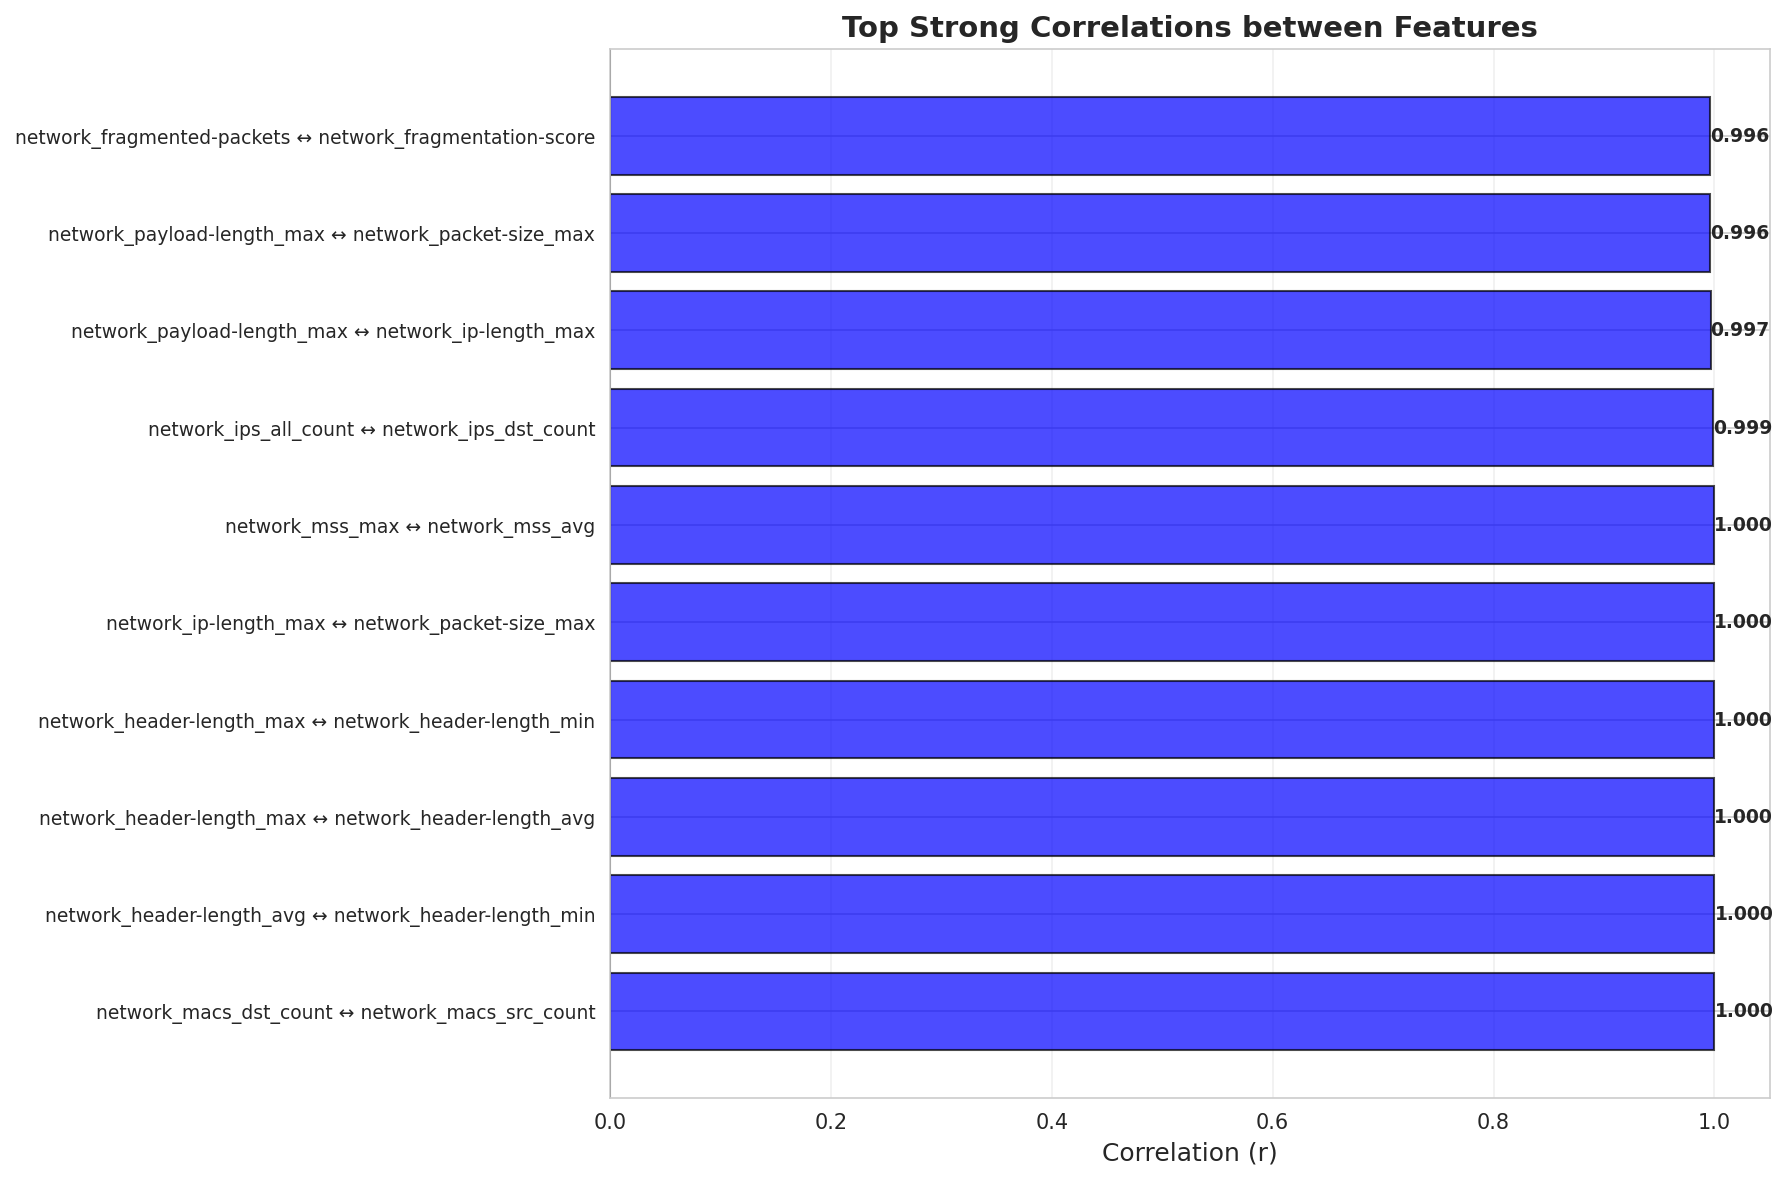
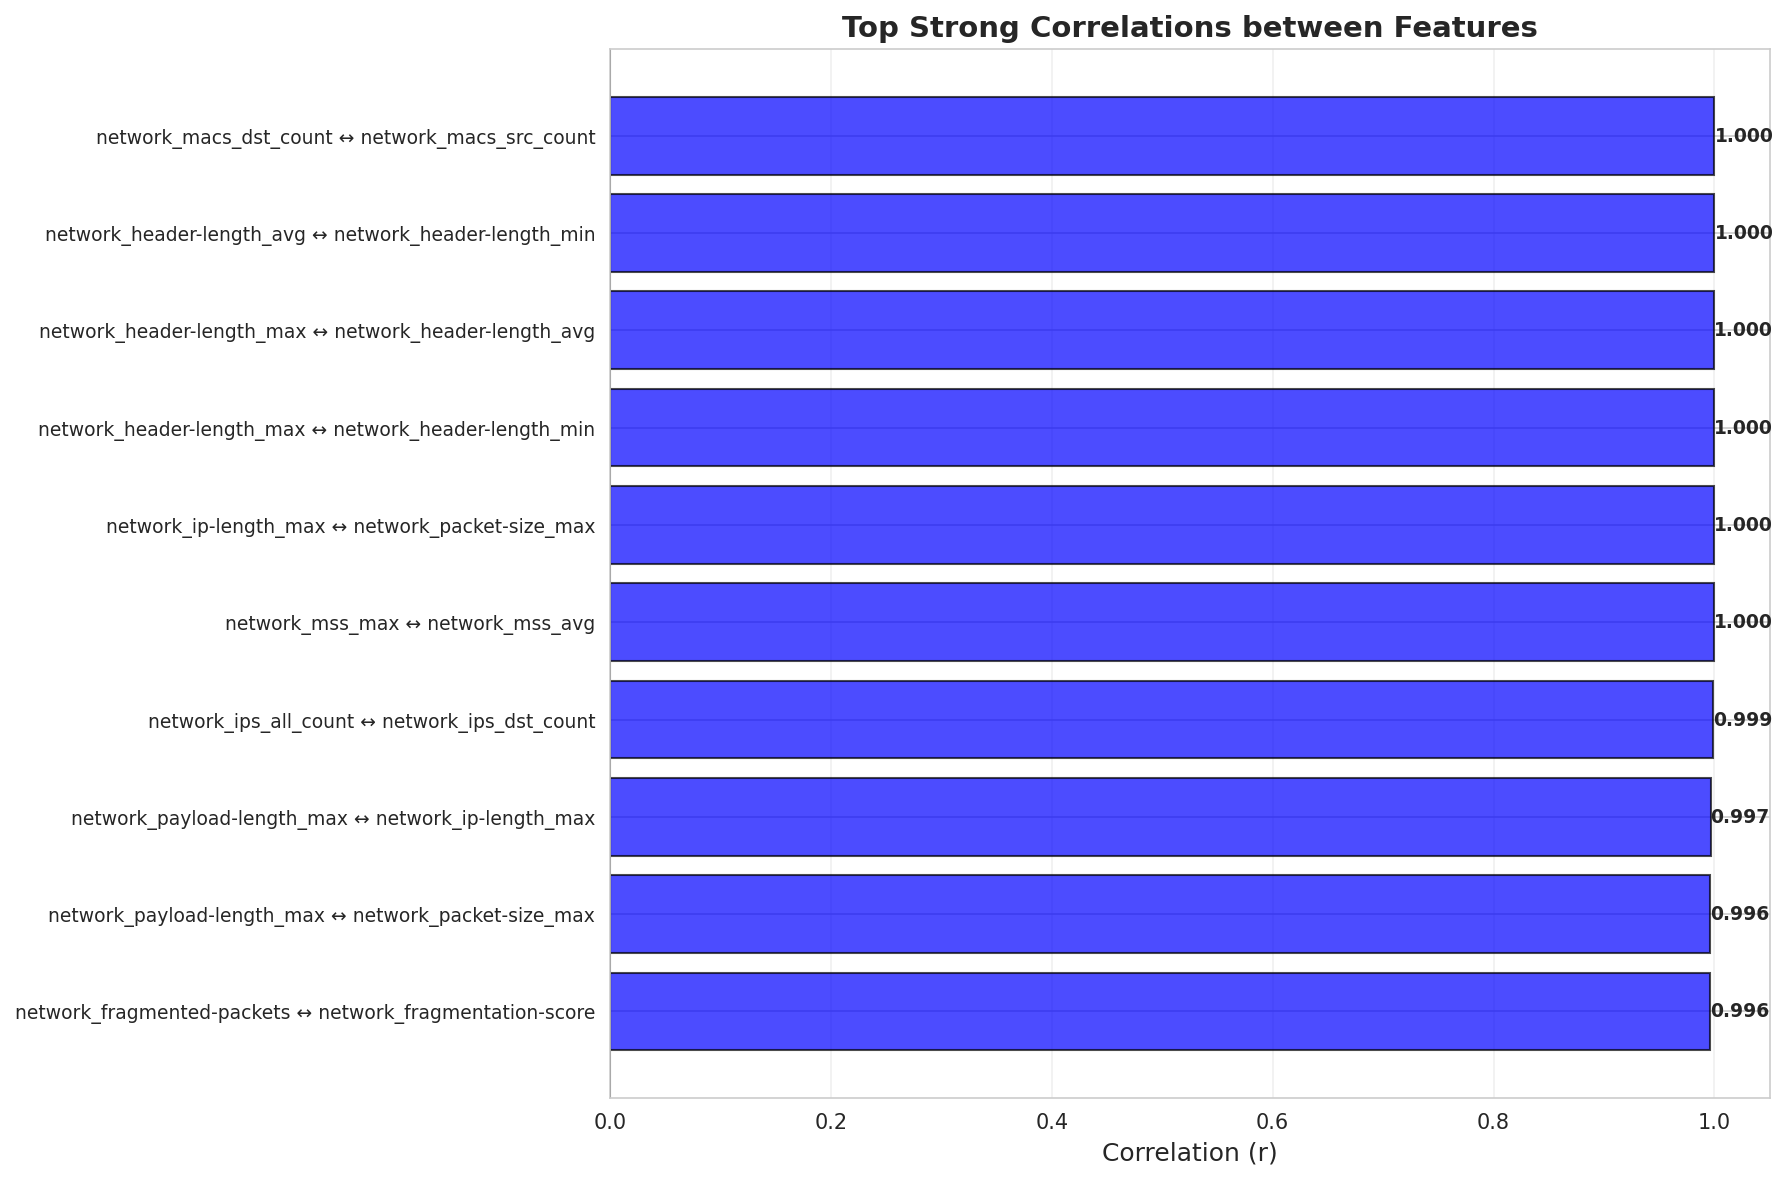
doc: update CIC IIoT 2025 dataset analysis

diff --git a/results/dataset_analysis/CIC_IIoT_dataset_2025_analysis_report.md b/results/dataset_analysis/CIC_IIoT_dataset_2025_analysis_report.md
@@ -3,7 +3,7 @@
 
 This report presents a complete exploratory analysis of the CIC_IIoT_dataset_2025 dataset.
 
-**Analysis Date**: 2026-02-15 13:29:26
+**Analysis Date**: 2026-02-15 13:49:33
 **Dataset**: CIC_IIoT_dataset_2025
 **Sample Size**: 685,671 records
 
@@ -175,8 +175,57 @@ Total: 94 features
 | network_mss_min | 685,671 | 266.6931 | 562.4755 | 0.0 | 1460.0 |
 | network_window-size_max | 685,671 | 26553.0249 | 31060.321 | 0.0 | 65535.0 |
 | network_ips_src_count | 685,671 | 3.5791 | 6.484 | 0.0 | 78.0 |
-
-*Showing top 20 of 71 numeric-like features*
+| network_tcp-flags_avg | 685,671 | 8.9136 | 9.2168 | 0.0 | 208.3478 |
+| network_tcp-flags-rst_count | 685,671 | 5419.6583 | 58071.4352 | 0.0 | 1486432.0 |
+| network_ip-length_avg | 685,671 | 116.7877 | 218.6081 | 0.0 | 2481.8333 |
+| network_ports_dst_count | 685,671 | 853.2226 | 5631.3971 | 0.0 | 65916.0 |
+| network_macs_dst_count | 685,671 | 3.3732 | 5.8305 | 0.0 | 45.0 |
+| network_header-length_max | 685,671 | 14.4844 | 8.9508 | 0.0 | 24.0 |
+| network_payload-length_std_deviation | 685,671 | 64.5199 | 165.2928 | 0.0 | 2177.1326 |
+| network_tcp-flags_max | 685,671 | 16.9472 | 100.7973 | 0.0 | 2242.0 |
+| network_window-size_min | 685,671 | 1531.8094 | 3768.6067 | 0.0 | 65535.0 |
+| network_interval-packets | 685,671 | 153.7965 | 461.8239 | 0.0 | 9471.0 |
+| network_fragmented-packets | 685,671 | 1007.2407 | 6331.1532 | 0.0 | 69251.0 |
+| log_messages_count | 685,671 | 1.8951 | 6.65 | 0.0 | 206.0 |
+| network_tcp-flags-psh_count | 685,671 | 3149.4591 | 39898.0425 | 0.0 | 1144412.0 |
+| network_tcp-flags_std_deviation | 685,671 | 2.8807 | 8.6968 | 0.0 | 627.6989 |
+| network_payload-length_max | 685,671 | 363.6184 | 811.4909 | 0.0 | 11584.0 |
+| network_ip-length_min | 685,671 | 63.6069 | 105.0832 | 0.0 | 1076.0 |
+| log_data-ranges_min | 685,671 | 57.3982 | 210.0542 | -0.94 | 2000.0 |
+| network_packet-size_std_deviation | 685,671 | 72.054 | 170.4643 | 0.0 | 2178.2776 |
+| log_data-ranges_std_deviation | 685,671 | 1.2542 | 16.1927 | 0.0 | 828.1889 |
+| network_header-length_avg | 685,671 | 14.4783 | 8.9455 | 0.0 | 24.0 |
+| log_data-ranges_avg | 685,671 | 59.8387 | 215.6092 | 0.0 | 2000.0 |
+| network_tcp-flags-ack_count | 685,671 | 4819.9003 | 42086.3376 | 0.0 | 1149957.0 |
+| network_ttl_avg | 685,671 | 97.4668 | 83.3519 | 0.0 | 255.0 |
+| network_fragmentation-score | 685,671 | 0.4664 | 2.2919 | 0.0 | 13.08 |
+| network_protocols_all_count | 685,671 | 1.9906 | 1.7959 | 0.0 | 34.0 |
+| network_mss_avg | 685,671 | 270.9329 | 567.0857 | 0.0 | 1460.0 |
+| log_interval-messages | 685,671 | 133.5741 | 346.989 | 0.0 | 9995.0 |
+| network_mss_std_deviation | 685,671 | 0.76 | 14.0911 | 0.0 | 591.3716 |
+| network_packets_dst_count | 685,671 | 26906.9448 | 115622.6209 | 0.0 | 1487601.0 |
+| network_packets_src_count | 685,671 | 1884.8546 | 15513.8198 | 0.0 | 637142.0 |
+| network_protocols_dst_count | 685,671 | 1.3913 | 1.6147 | 0.0 | 33.0 |
+| network_tcp-flags-fin_count | 685,671 | 4499.0201 | 57348.4759 | 0.0 | 1486432.0 |
+| network_ttl_std_deviation | 685,671 | 33.4951 | 43.7257 | 0.0 | 127.0 |
+| network_ip-length_max | 685,671 | 381.6436 | 805.1209 | 0.0 | 11636.0 |
+| network_payload-length_min | 685,671 | 38.5296 | 106.8489 | 0.0 | 1024.0 |
+| network_tcp-flags-syn_count | 685,671 | 4148.8099 | 40906.3785 | 0.0 | 1169727.0 |
+| network_time-delta_max | 685,671 | 0.036 | 0.0512 | -0.0 | 0.4722 |
+| network_ttl_min | 685,671 | 64.9581 | 74.8005 | 0.0 | 255.0 |
+| log_data-ranges_max | 685,671 | 61.4138 | 218.0694 | 0.0 | 2000.0 |
+| network_ports_all_count | 685,671 | 3955.8936 | 14193.3612 | 0.0 | 65916.0 |
+| network_tcp-flags-urg_count | 685,671 | 0.0221 | 0.5324 | 0.0 | 33.0 |
+| network_protocols_src_count | 685,671 | 1.5337 | 1.416 | 0.0 | 14.0 |
+| network_window-size_std_deviation | 685,671 | 9733.2781 | 13042.4712 | 0.0 | 32767.5 |
+| network_header-length_min | 685,671 | 14.4771 | 8.9447 | 0.0 | 24.0 |
+| network_time-delta_min | 685,671 | 0.0032 | 0.0144 | -0.0 | 0.4091 |
+| network_packets_all_count | 685,671 | 28791.7993 | 119716.2588 | 0.0 | 1487727.0 |
+| network_ttl_max | 685,671 | 150.3535 | 116.0116 | 0.0 | 255.0 |
+| network_packet-size_max | 685,671 | 400.5294 | 803.4609 | 0.0 | 11650.0 |
+| network_window-size_avg | 685,671 | 11033.8624 | 15960.2888 | 0.0 | 65535.0 |
+| network_macs_src_count | 685,671 | 3.3732 | 5.8305 | 0.0 | 45.0 |
+| network_packet-size_min | 685,671 | 67.4747 | 83.9698 | 0.0 | 1090.0 |
 
 ### Descriptive Statistics - Categorical Features
 
@@ -202,8 +251,9 @@ Total: 94 features
 | network_ports_all | 685671 | 205883 | [] | 30.05% |
 | network_ports_dst | 685671 | 186137 | [] | 30.05% |
 | network_ports_src | 685671 | 202188 | [] | 30.05% |
-
-*Showing top 20 of 23 categorical features*
+| network_protocols_all | 685671 | 7082 | [] | 20.03% |
+| network_protocols_dst | 685671 | 4879 | [] | 29.14% |
+| network_protocols_src | 685671 | 2309 | [] | 24.12% |
 
 ### Numeric features - Distributions and boxplots
 
@@ -215,7 +265,15 @@ Total: 94 features
 
 ## 4. Class Distribution Analysis
 
-### Distribution of column 'label_full'
+### Number of classification columns (label column)
+
+- **label_full**
+- **label1**
+- **label2**
+- **label3**
+- **label4**
+
+#### Distribution of column 'label_full'
 
 | Class | Count | Percent |
 |-------|-------|----------|
@@ -1165,7 +1223,7 @@ Total: 94 features
 
 ⚠️ **Highly imbalanced dataset!**
 
-### Distribution of column 'label1'
+#### Distribution of column 'label1'
 
 | Class | Count | Percent |
 |-------|-------|----------|
@@ -1180,7 +1238,7 @@ Total: 94 features
 
 ✓ **Relatively balanced dataset**
 
-### Distribution of column 'label2'
+#### Distribution of column 'label2'
 
 | Class | Count | Percent |
 |-------|-------|----------|
@@ -1201,7 +1259,7 @@ Total: 94 features
 
 ⚠️ **Highly imbalanced dataset!**
 
-### Distribution of column 'label3'
+#### Distribution of column 'label3'
 
 | Class | Count | Percent |
 |-------|-------|----------|
@@ -1275,7 +1333,7 @@ Total: 94 features
 
 ⚠️ **Highly imbalanced dataset!**
 
-### Distribution of column 'label4'
+#### Distribution of column 'label4'
 
 | Class | Count | Percent |
 |-------|-------|----------|
@@ -1403,24 +1461,13 @@ Total: 94 features
 2. **Data Types**: 3 unique data types - 23 categorical, 71 numeric
 3. **Class Distribution**: 937 classes found in 'label_full'
 4. **High Cardinality**: 0 features with >90% unique values
-
-### Suggested Next Steps
-
-1. **Data Type Conversion**: Convert numeric features from string to appropriate numeric types
-2. **Feature Engineering**: Remove constant features, consider dimensionality reduction for high-cardinality features
-3. **Data Loading**: Investigate if additional data needs to be loaded
-4. **Temporal Analysis**: Analyze patterns over time using timestamp features
-5. **Preprocessing**: Prepare data for modeling with appropriate encoding strategies
-
----
-
 ## Appendix: Dataset Information
 
 - **Dataset**: CIC_IIoT_dataset_2025
 - **Sample Size**: 685,671 records
 - **Total Features**: 94
 - **Database Size**: 36565.76 MB
-- **Analysis Date**: 2026-02-15 13:29:28
+- **Analysis Date**: 2026-02-15 13:49:35
 - **Database**: SQLite---
 
 *Report generated from dataset_analysis.ipynb notebook*